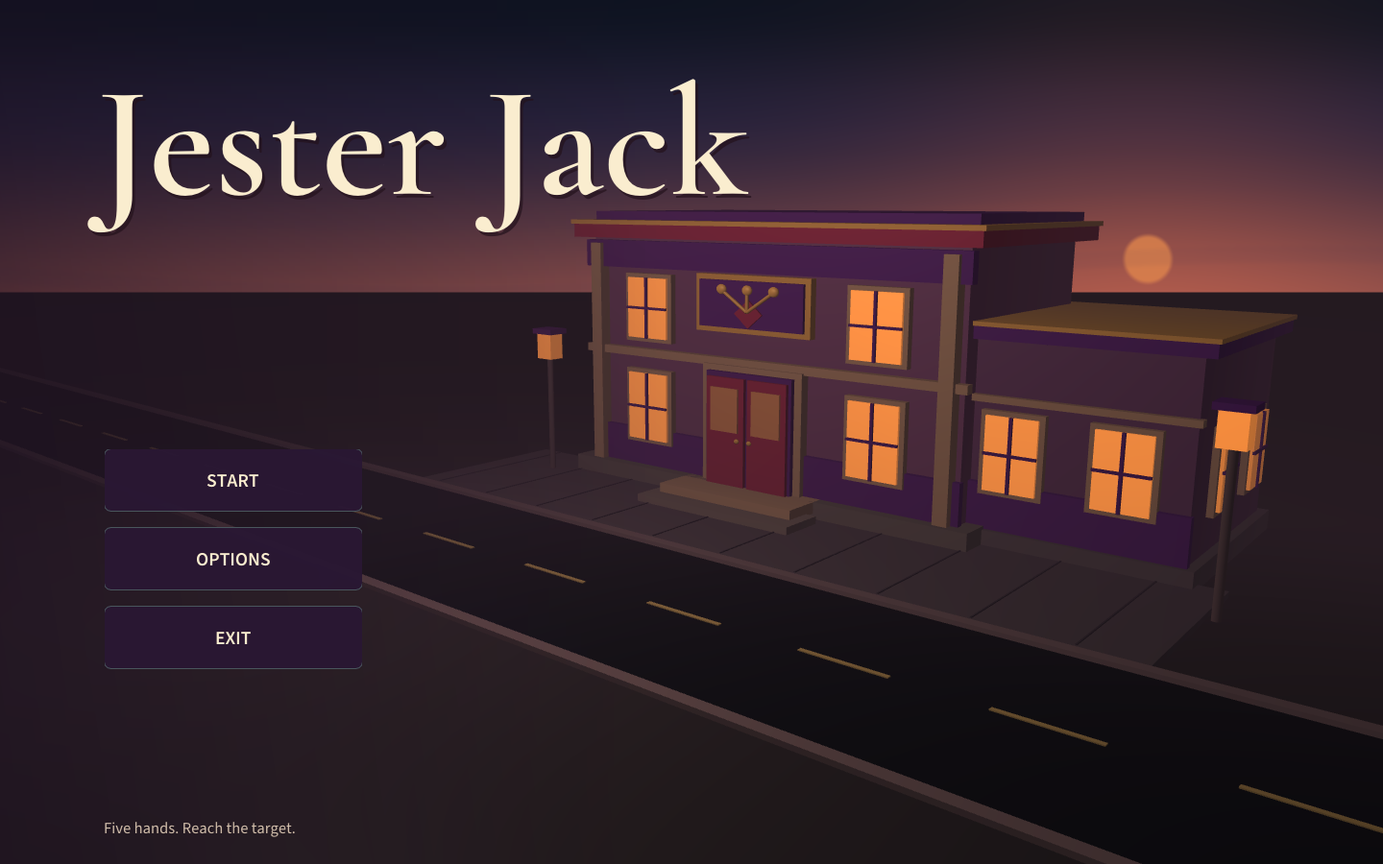
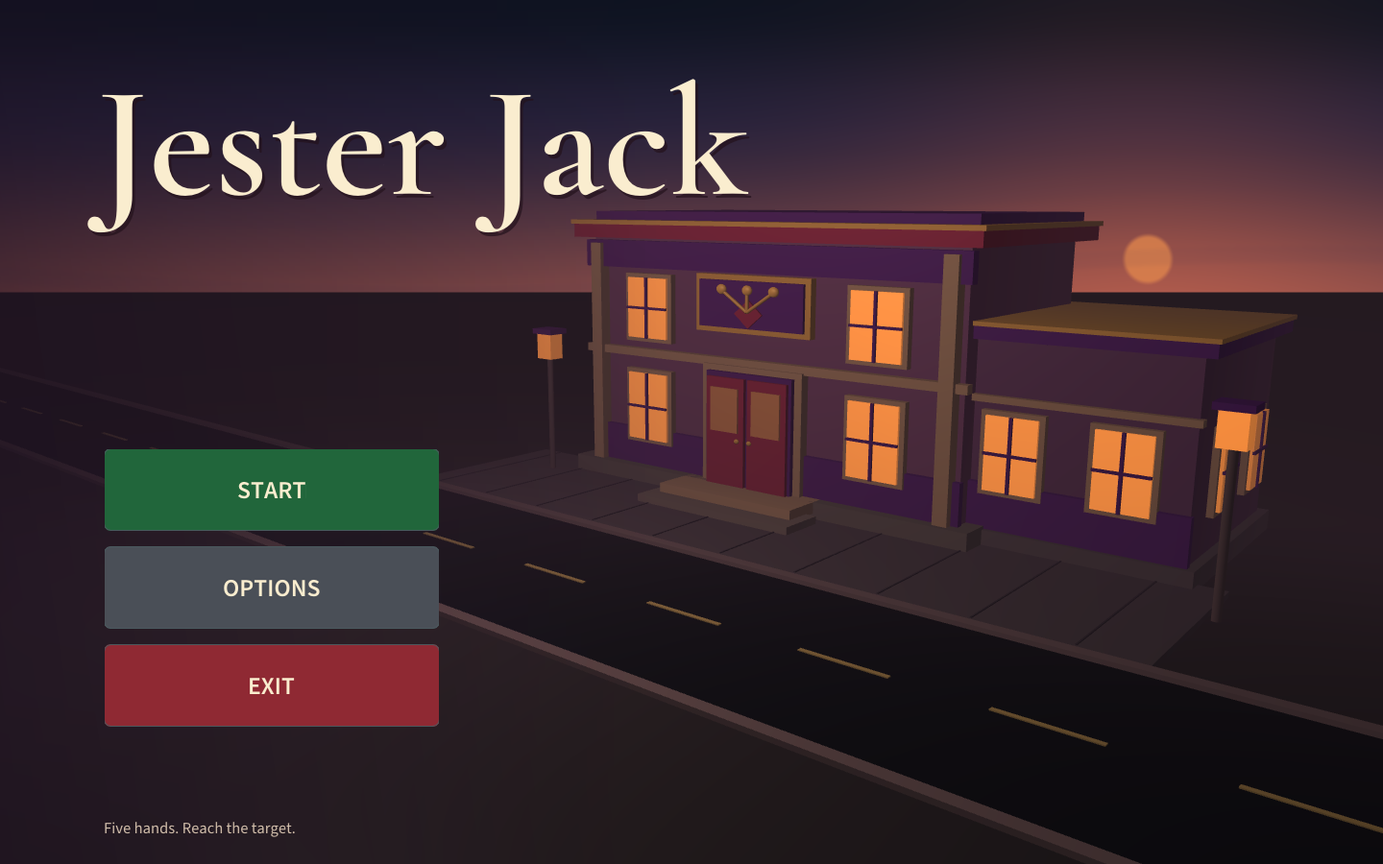
feat: enlarge menu controls and highlight relic rarities

Changed region(s): [[0.0625, 0.4978, 0.3438, 0.84]]

diff --git a/src/main.cpp b/src/main.cpp
@@ -175,6 +175,7 @@ struct Interface {
     ImFont* title = nullptr;
     ImFont* heading = nullptr;
     ImFont* button = nullptr;
+    ImFont* menuButton = nullptr;
     ImFont* number = nullptr;
     ImFont* small = nullptr;
     explicit Interface(GLFWwindow* window, const std::filesystem::path& assets) {
@@ -193,9 +194,10 @@ struct Interface {
         heading = io.Fonts->AddFontFromFileTTF(semibold.c_str(), 36.0f, &font);
         title = io.Fonts->AddFontFromFileTTF(semibold.c_str(), 200.0f, &font);
         button = io.Fonts->AddFontFromFileTTF(bold.c_str(), 26.0f, &font);
+        menuButton = io.Fonts->AddFontFromFileTTF(bold.c_str(), 34.0f, &font);
         number = io.Fonts->AddFontFromFileTTF(bold.c_str(), 46.0f, &font);
         small = io.Fonts->AddFontFromFileTTF(body.c_str(), 18.0f, &font);
-        if (!io.FontDefault || !heading || !title || !button || !number || !small) {
+        if (!io.FontDefault || !heading || !title || !button || !menuButton || !number || !small) {
             ImGui::DestroyContext();
             throw std::runtime_error("Missing Jester Jack fonts. Keep assets beside the executable.");
         }
@@ -319,9 +321,9 @@ void primaryAction(bj::Game& game, Commands& commands) {
 
 struct MenuLayout {
     ImVec2 origin;
-    float width = 270;
-    float height = 66;
-    float step = 82;
+    float width = 350;
+    float height = 86;
+    float step = 102;
 };
 
 MenuLayout menuLayout(ImVec2 display) {
@@ -343,19 +345,28 @@ void drawMenu(bj::Game& game, Session& session, const Interface& ui, GLFWwindow*
 
     const auto layout = menuLayout(display);
     ImGui::PushStyleVar(ImGuiStyleVar_WindowPadding, {0, 0});
-    ImGui::PushStyleColor(ImGuiCol_Button, {0.16f, 0.09f, 0.20f, 0.96f});
     beginPanel("##menu", layout.origin, {layout.width, 3 * layout.step}, true);
     ImGui::BeginDisabled(session.transitioning() || session.settings);
-    ImGui::PushFont(ui.button);
-    if (ImGui::Button("START", {layout.width, layout.height})) session.start(game);
+    ImGui::PushFont(ui.menuButton);
+    const auto button = [&](const char* label, ImVec4 normal, ImVec4 hover, ImVec4 active) {
+        ImGui::PushStyleColor(ImGuiCol_Button, normal);
+        ImGui::PushStyleColor(ImGuiCol_ButtonHovered, hover);
+        ImGui::PushStyleColor(ImGuiCol_ButtonActive, active);
+        const bool pressed = ImGui::Button(label, {layout.width, layout.height});
+        ImGui::PopStyleColor(3);
+        return pressed;
+    };
+    if (button("START", {.13f, .40f, .23f, 1}, {.19f, .53f, .31f, 1}, {.10f, .32f, .18f, 1}))
+        session.start(game);
     ImGui::SetCursorPos({0, layout.step});
-    if (ImGui::Button("OPTIONS", {layout.width, layout.height})) session.settings = true;
+    if (button("OPTIONS", {.29f, .31f, .34f, 1}, {.40f, .43f, .46f, 1}, {.22f, .24f, .27f, 1}))
+        session.settings = true;
     ImGui::SetCursorPos({0, 2 * layout.step});
-    if (ImGui::Button("EXIT", {layout.width, layout.height})) glfwSetWindowShouldClose(window, GLFW_TRUE);
+    if (button("EXIT", {.56f, .16f, .20f, 1}, {.70f, .23f, .27f, 1}, {.44f, .11f, .14f, 1}))
+        glfwSetWindowShouldClose(window, GLFW_TRUE);
     ImGui::PopFont();
     ImGui::EndDisabled();
     ImGui::End();
-    ImGui::PopStyleColor();
     ImGui::PopStyleVar();
     backdrop->AddText({layout.origin.x, display.y - 49}, IM_COL32(234, 213, 190, 225),
         "Five hands. Reach the target.");
@@ -370,6 +381,26 @@ ImVec4 rarityColor(bj::Rarity rarity) {
         case bj::Rarity::Legendary: return {1.0f, 0.70f, 0.25f, 1};
     }
     return cream;
+}
+
+void rarityBadge(bj::Rarity rarity, const Interface& ui) {
+    const auto color = ImGui::ColorConvertFloat4ToU32(rarityColor(rarity));
+    const char* label = bj::rarityName(rarity);
+    const ImVec2 origin = ImGui::GetCursorScreenPos();
+    const ImVec2 text = ui.button->CalcTextSizeA(26, 1000, 0, label);
+    ImGui::Dummy({text.x + 20, 32});
+    auto* draw = ImGui::GetWindowDrawList();
+    draw->AddRectFilled(origin, {origin.x + text.x + 20, origin.y + 32}, color, 5);
+    draw->AddText(ui.button, 26, {origin.x + 10, origin.y + 3}, IM_COL32(17, 22, 28, 255), label);
+}
+
+void drawCoinIcon(ImDrawList* draw, ImVec2 center, float radius, const Interface& ui) {
+    const ImU32 rim = IM_COL32(166, 103, 27, 255);
+    draw->AddCircleFilled({center.x - 7, center.y + 4}, radius, rim, 32);
+    draw->AddCircleFilled(center, radius, ImGui::ColorConvertFloat4ToU32(gold), 32);
+    draw->AddCircle(center, radius - 4, rim, 32, 2);
+    const ImVec2 mark = ui.button->CalcTextSizeA(26, 1000, 0, "$");
+    draw->AddText(ui.button, 26, {center.x - mark.x * .5f, center.y - mark.y * .5f}, rim, "$");
 }
 
 const char* relicSummary(bj::Relic relic) {
@@ -403,7 +434,7 @@ TableLayout tableLayout(ImVec2 display) {
     const float sidebar = std::clamp(display.x * .24f, 280.0f, 340.0f);
     const float contentX = sidebar + 24;
     const float actionY = display.y - 154;
-    return {sidebar, contentX, display.x - contentX - 20, 172, actionY - 182, actionY};
+    return {sidebar, contentX, display.x - contentX - 20, 202, actionY - 212, actionY};
 }
 
 ImVec2 dealButtonCenter(const TableLayout& layout) {
@@ -424,7 +455,7 @@ void relicTooltip(const bj::RelicInfo& item, const Interface& ui) {
 
 void drawRelicStrip(const bj::Game& game, const TableLayout& layout, const Interface& ui) {
     ImGui::PushStyleVar(ImGuiStyleVar_WindowPadding, {0, 0});
-    beginPanel("##relics", {layout.contentX, 16}, {layout.contentWidth, 146}, true);
+    beginPanel("##relics", {layout.contentX, 16}, {layout.contentWidth, 174}, true);
     ImGui::TextColored(cream, "RELICS  %d / 4", static_cast<int>(game.state().owned.size()));
     ImGui::SameLine();
     ImGui::PushFont(ui.small);
@@ -438,25 +469,34 @@ void drawRelicStrip(const bj::Game& game, const TableLayout& layout, const Inter
         const auto* item = filled ? &relicInfo(game.state().owned[static_cast<std::size_t>(slot)]) : nullptr;
         const ImVec4 accent = filled ? rarityColor(item->rarity) : ImVec4(.27f, .31f, .34f, 1);
         ImGui::PushStyleColor(ImGuiCol_Border, accent);
-        ImGui::PushStyleColor(ImGuiCol_ChildBg, {.105f, .12f, .15f, .97f});
-        ImGui::PushStyleVar(ImGuiStyleVar_WindowPadding, {12, 9});
+        ImGui::PushStyleColor(ImGuiCol_ChildBg, filled
+            ? ImVec4(.07f + accent.x * .16f, .08f + accent.y * .16f, .10f + accent.z * .16f, .99f)
+            : ImVec4(.105f, .12f, .15f, .97f));
+        ImGui::PushStyleVar(ImGuiStyleVar_ChildBorderSize, filled ? 2.0f : 1.0f);
+        ImGui::PushStyleVar(ImGuiStyleVar_WindowPadding, {12, 10});
         ImGui::PushStyleVar(ImGuiStyleVar_ItemSpacing, {4, 3});
-        ImGui::BeginChild("slot", {width, 112}, ImGuiChildFlags_Borders, ImGuiWindowFlags_NoScrollbar);
+        ImGui::BeginChild("slot", {width, 140}, ImGuiChildFlags_Borders, ImGuiWindowFlags_NoScrollbar);
         if (item) {
-            ImGui::TextColored(cream, "%s", item->name);
+            const ImVec2 namePosition = ImGui::GetCursorScreenPos();
+            const float available = ImGui::GetContentRegionAvail().x;
+            const float nameWidth = ui.button->CalcTextSizeA(26, 1000, 0, item->name).x;
+            const float nameSize = 26 * std::min(1.0f, available / nameWidth);
+            ImGui::Dummy({available, 26});
+            ImGui::GetWindowDrawList()->AddText(ui.button, nameSize, namePosition,
+                ImGui::ColorConvertFloat4ToU32(cream), item->name);
+            rarityBadge(item->rarity, ui);
             ImGui::PushFont(ui.small);
-            ImGui::TextColored(accent, "%s", bj::rarityName(item->rarity));
             ImGui::TextWrapped("%s", item->id == bj::Relic::SecondChance && game.state().usedSecondChance
                 ? "Rescue used this round" : relicSummary(item->id));
             ImGui::PopFont();
         } else {
-            ImGui::SetCursorPosY(35);
+            ImGui::SetCursorPosY(49);
             ImGui::PushFont(ui.small);
             ImGui::TextColored(muted, "Empty relic slot");
             ImGui::PopFont();
         }
         ImGui::EndChild();
-        ImGui::PopStyleVar(2);
+        ImGui::PopStyleVar(3);
         ImGui::PopStyleColor(2);
         if (item && ImGui::IsItemHovered()) relicTooltip(*item, ui);
         ImGui::PopID();
@@ -562,10 +602,22 @@ void drawShop(bj::Game& game, Commands& commands, const Interface& ui) {
     const float width = std::min(900.0f, display.x - 64);
     const float height = std::min(760.0f, display.y - 48);
     beginPanel("##shop", {(display.x - width) * .5f, (display.y - height) * .5f}, {width, height});
-    heading("RELIC SHOP", ui);
-    ImGui::TextColored(gold, "%d coins", state.coins);
-    ImGui::SameLine();
-    ImGui::Text(" /  %d of 4 relic slots used", static_cast<int>(state.owned.size()));
+    const ImVec2 header = ImGui::GetCursorScreenPos();
+    ImGui::PushFont(ui.heading);
+    ImGui::TextColored(gold, "RELIC SHOP");
+    ImGui::PopFont();
+    const std::string coins = std::to_string(state.coins);
+    const float numberWidth = ui.number->CalcTextSizeA(46, 1000, 0, coins.c_str()).x;
+    const float labelWidth = ui.small->CalcTextSizeA(18, 1000, 0, "COINS").x;
+    const float walletX = ImGui::GetWindowPos().x + width - 20 - labelWidth - numberWidth - 72;
+    auto* draw = ImGui::GetWindowDrawList();
+    drawCoinIcon(draw, {walletX + 22, header.y + 25}, 21, ui);
+    draw->AddText(ui.number, 46, {walletX + 54, header.y}, ImGui::ColorConvertFloat4ToU32(gold), coins.c_str());
+    draw->AddText(ui.small, 18, {walletX + 66 + numberWidth, header.y + 19},
+        ImGui::ColorConvertFloat4ToU32(gold), "COINS");
+    ImGui::SetCursorScreenPos({header.x, header.y + 56});
+    ImGui::Separator();
+    ImGui::Text("%d of 4 relic slots used", static_cast<int>(state.owned.size()));
     ImGui::PushFont(ui.small);
     ImGui::TextColored(muted, "Round cleared. Choose an upgrade or save your coins.");
     ImGui::PopFont();
@@ -579,12 +631,13 @@ void drawShop(bj::Game& game, Commands& commands, const Interface& ui) {
         ImGui::SetCursorPos({20 + static_cast<float>(i) * (cardWidth + 14), offerY});
         ImGui::PushStyleColor(ImGuiCol_Border, accent);
         ImGui::PushStyleColor(ImGuiCol_ChildBg, {.105f, .12f, .15f, 1});
+        ImGui::PushStyleVar(ImGuiStyleVar_ChildBorderSize, 2);
         ImGui::BeginChild("offer", {cardWidth, offerHeight}, ImGuiChildFlags_Borders, ImGuiWindowFlags_NoScrollbar);
         ImGui::PushFont(ui.button);
         ImGui::TextColored(cream, "%s", item.name);
         ImGui::PopFont();
+        rarityBadge(item.rarity, ui);
         ImGui::PushFont(ui.small);
-        ImGui::TextColored(accent, "%s", bj::rarityName(item.rarity));
         ImGui::TextWrapped("%s", item.description);
         ImGui::PopFont();
         ImGui::SetCursorPosY(offerHeight - 60);
@@ -601,6 +654,7 @@ void drawShop(bj::Game& game, Commands& commands, const Interface& ui) {
         ImGui::EndDisabled();
         ImGui::PopFont();
         ImGui::EndChild();
+        ImGui::PopStyleVar();
         ImGui::PopStyleColor(2);
         ImGui::PopID();
     }
@@ -619,9 +673,7 @@ void drawShop(bj::Game& game, Commands& commands, const Interface& ui) {
         ImGui::TextColored(rarityColor(item.rarity), "%s", item.name);
         if (ImGui::IsItemHovered()) relicTooltip(item, ui);
         ImGui::SameLine(300);
-        ImGui::PushFont(ui.small);
-        ImGui::TextColored(rarityColor(item.rarity), "%s", bj::rarityName(item.rarity));
-        ImGui::PopFont();
+        rarityBadge(item.rarity, ui);
         ImGui::SameLine(width - 190);
         ImGui::PushStyleVar(ImGuiStyleVar_FramePadding, {12, 3});
         ImGui::BeginDisabled(commands.blocked || commands.used);

diff --git a/README.md b/README.md
@@ -1,34 +1,31 @@
-# Final-Project-CGF - Jester Jack
+# Jester Jack
 
-[![Build and tests](https://github.com/F1j1tun1/Final-Project-CGF/actions/workflows/build.yml/badge.svg?branch=main)](https://github.com/F1j1tun1/Final-Project-CGF/actions/workflows/build.yml)
+Одиночный блэкджек с бесконечными раундами и улучшениями. C++17, OpenGL 3.3 Core.
 
-**Jester Jack** - учебный прототип одиночного блэкджека с бесконечными раундами и магазином улучшений. В каждом раунде есть до пяти раздач, чтобы набрать цель по очкам. Забег заканчивается, только если раздачи закончились, а цель не выполнена. Ставок нет: победные руки приносят монеты, за которые можно собрать набор из четырёх улучшений.
+## Запуск
 
-Главное меню показывает крупное название вверху слева и вертикальные кнопки START, OPTIONS, EXIT ниже слева. Справа расположено увеличенное процедурное казино в три четверти, вдоль дороги, при вечернем закатном освещении. START запускает затемнение и появление у стола за 0,9 секунды; первая рука раздаётся отдельно. Фиолетовый, золотой и красный декор сочетается с классическим заголовком Cormorant Garamond и более крупным читаемым текстом Source Sans 3. Видимого персонажа дилера за столом нет; карты дилера сохраняются. Интерфейс английский, документация русская.
+В готовой сборке откройте `JesterJack.exe`. Рядом должна оставаться папка `assets/`. Для запуска нужен Windows с драйвером OpenGL 3.3 Core.
 
-Во время игры слева крупно показаны цель и очки раунда, оставшиеся раздачи и монеты. Четыре места для активных улучшений расположены горизонтально сверху; стол занимает центр и правую часть, действия - нижнюю правую часть. Полные правила открываются через HOW TO PLAY. Компоновка HUD использует [официальные изображения Balatro](https://store.steampowered.com/app/2379780/Balatro/) как ориентир; в поставляемой игре используются собственные сцена, карточки и ресурсы.
+## Правила и управление
 
-![Главное меню Jester Jack](docs/images/jester-menu.png)
+За пять раздач наберите цель раунда: сначала 30 очков, затем +10 за раунд, максимум 100. Победная рука приносит очки и 3 монеты. После выполнения цели открывается магазин с двумя предложениями. Можно держать до четырёх улучшений и продавать их за половину цены. Если раздачи закончились без выполнения цели, забег завершается.
 
-![Стол Jester Jack](docs/images/jester-table.png)
+| Управление | Действие |
+| --- | --- |
+| H | Взять карту |
+| S | Остановиться |
+| Space | Основное действие: старт, раздача, остановиться, продолжить или повторить забег |
+| Enter | Нажать выделенную кнопку |
+| F1 | Настройки |
+| Escape | Закрыть правила/настройки или вернуться в меню |
 
-Основной репозиторий команды: [F1j1tun1/Final-Project-CGF](https://github.com/F1j1tun1/Final-Project-CGF). Работайте в его checkout, а дальнейшие изменения оформляйте отдельными ветками и PR: [CONTRIBUTING.md](CONTRIBUTING.md), [TEAM_WORKFLOW.md](docs/TEAM_WORKFLOW.md).
+Полные правила — HOW TO PLAY. Кнопки также работают мышью. Выход — EXIT или QUIT GAME.
 
-## Техническая основа
+## Сборка на Windows
 
-Сохранены **C++17, OpenGL 3.3 Core и CMake 3.24+**, собственные GLSL-шейдеры, model/view/projection, матрица нормалей, Blinn-Phong и процедурные текстуры. Готовый движок не используется. 2D-интерфейс ImGui дополняет собственную 3D-сцену. Связь с заданием и лекциями описана в [COURSE_REQUIREMENTS.md](docs/COURSE_REQUIREMENTS.md) и [LECTURE_ALIGNMENT.md](docs/LECTURE_ALIGNMENT.md).
+Нужны CMake 3.24+ и Visual Studio 2022/2026 либо Build Tools с MSVC, Windows SDK и компонентом Desktop development with C++. Зависимости включены в `third_party/`.
 
-GLFW, GLM, Dear ImGui и GLAD включены в `third_party/`; CMake не скачивает зависимости. Для полной игры отдельно нужны компилятор C++17, CMake 3.24+ и драйвер OpenGL 3.3 Core.
-
-## Сборка и запуск
-
-```text
-git clone https://github.com/F1j1tun1/Final-Project-CGF.git
-cd Final-Project-CGF
-code .
-```
-
-На Windows установите Visual Studio 2022/2026 либо Build Tools с компонентами **Desktop development with C++**, MSVC и Windows SDK. VS Code сам по себе не устанавливает компилятор.
+В терминале из папки с `CMakeLists.txt`:
 
 ```powershell
 cmake --preset desktop
@@ -37,90 +34,14 @@ ctest --preset desktop
 .\build\desktop\Debug\blackjack_forge.exe
 ```
 
-Исполняемый файл и CMake target сохраняют имя `blackjack_forge` для совместимости с настройками сборки. Путь выше соответствует генератору Visual Studio; для Ninja программа обычно находится в `build/desktop/` без подпапки `Debug`. Если CMake не видит MSVC, используйте Developer PowerShell из Visual Studio.
+Если CMake не видит MSVC, используйте Developer PowerShell. Имя собираемого файла — `blackjack_forge.exe`; игра называется Jester Jack.
 
-На Debian/Ubuntu для X11 нужны системные пакеты:
+Только правила и тесты, без окна и GPU:
 
-```bash
-sudo apt install build-essential cmake libgl1-mesa-dev libxrandr-dev libxinerama-dev libxcursor-dev libxi-dev
-cmake --preset desktop -DGLFW_BUILD_WAYLAND=OFF
-cmake --build --preset desktop --parallel
-ctest --preset desktop
-./build/desktop/blackjack_forge
-```
-
-Проверьте `cmake --version`: версия из репозитория дистрибутива может быть ниже 3.24. Если нужен Wayland, установите `libwayland-dev`, `libxkbcommon-dev`, `wayland-protocols` и конфигурируйте без его отключения. Названия пакетов зависят от дистрибутива.
-
-Правила можно собрать без окна, OpenGL и GPU:
-
-```text
+```powershell
 cmake --preset core-only
 cmake --build --preset core-only --parallel
 ctest --preset core-only
 ```
 
-## Правила и магазин
-
-**Раздача** - одна рука игрока против дилера. **Раунд** - до пяти таких раздач с общей целью по очкам. Наберите сумму ближе к 21, чем дилер. Туз считается как 1 или 11; натуральный блэкджек - 21 на первых двух картах. Дилер останавливается на 17, включая мягкие 17. Проигрыш отдельной руки даёт ноль очков и монет, обрывает серию, но не заканчивает забег. Ничья тоже даёт ноль, сохраняя серию.
-
-Цель первого раунда - **30 очков**, затем она растёт на 10 за раунд до **100**: 30, 40, 50, 60, 70, 80, 90, 100, 100… После выполнения цели кнопка продолжения ведёт в магазин, даже если это последняя доступная раздача. Если все пять раздач использованы, а цель не достигнута, автоматически появляется **GAME OVER** с RETRY, MAIN MENU и QUIT GAME. После магазина начинается следующий раунд с новой целью, нулевым счётом раунда и пятью раздачами. Раунды продолжаются бесконечно; финальной победы нет.
-
-За каждую победную руку начисляются **3 монеты** плюс небольшие бонусы улучшений. Очки - сумма победной руки, +10 за натуральный блэкджек и бонусы улучшений; Streak также может увеличить итог множителем до 1,4. Очки идут к цели текущего раунда и в общий результат забега. Перед каждой раздачей равномерно перемешивается новая колода из 52 карт без подыгрывания блэкджеку. При случайной обычной раздаче шанс натурального блэкджека составляет около 4,83%; проценты обозначают вероятность, а не принудительную частоту исходов.
-
-Магазин открывается **только после выполнения цели раунда**: два случайных предложения из 12 улучшений, цены 2/4/6/8/10 монет. Редкости выделены названиями и цветом: Common, Uncommon, Rare, Epic, Legendary. Их базовые веса - **50/28/14/6/2**: сначала выбирается редкость среди доступных, затем равномерно предмет внутри неё. Предпочтение новым предложениям действует внутри выбранной редкости; недоступные редкости исключаются с пересчётом весов. Это вероятности выбора, а не гарантированное число редких предметов за забег.
-
-Предложения фиксируются на весь визит; уже активное улучшение не предлагается и не может дублироваться. Одновременно можно держать максимум **четыре** улучшения; покупать оба предложения необязательно. Продажа доступна в магазине за половину цены покупки. Проданное улучшение может появиться в следующих магазинах; покупка и продажа не меняют текущую пару предложений. Second Chance спасает от одной карты перебора за раунд и обновляется в следующем раунде. Полный каталог и точные эффекты - в [ARCHITECTURE.md](docs/ARCHITECTURE.md).
-
-![Магазин Jester Jack](docs/images/jester-shop.png)
-
-Обычный запуск получает новый случайный seed. `--seed N` воспроизводит тот же забег при тех же действиях; карты и магазин используют отдельные генераторы. На экране проигрыша показан seed. RETRY при фиксированном seed увеличивает его на 1; чтобы воспроизвести прежний забег, запустите программу снова с исходным `--seed`.
-
-| Клавиша | Действие |
-| --- | --- |
-| H | Взять карту |
-| S | Остановиться |
-| Space | START / раздать / Stand во время хода / продолжить / следующий раунд / Retry |
-| Enter | Активировать выделенную кнопку интерфейса |
-| F1 | Открыть или закрыть настройки |
-| Escape | Закрыть инструкции/настройки, иначе вернуться в меню |
-
-Выход из приложения - EXIT в главном меню. START из меню начинает новый забег. Настройки включают камеру, свет, текстуры, фоновое движение и стартовый переход. Во время перехода и открытых настроек игровые команды блокируются.
-
-![Экран завершения забега](docs/images/jester-game-over.png)
-
-## Демо и проверка графики
-
-Примеры для Windows; на Linux замените путь программы на `./build/desktop/blackjack_forge`.
-
-```powershell
-# Пропустить меню и сразу раздать руку для воспроизводимой проверки.
-.\build\desktop\Debug\blackjack_forge.exe --demo --seed 42
-
-# Сохранить главный экран или стол.
-.\build\desktop\Debug\blackjack_forge.exe --hidden --frames 3 --screenshot build/menu.png
-.\build\desktop\Debug\blackjack_forge.exe --hidden --demo --seed 42 --frames 3 --screenshot build/table.png
-
-# Интеграция: меню, переход, игровые команды, изменение размера окна.
-.\build\desktop\Debug\blackjack_forge.exe --smoke --frames 600 --capture-states build/captures
-```
-
-`--smoke` использует seed 42, если явно не задан другой, скрытое окно и автоматические действия; по умолчанию длится 180 кадров. `--autoplay` включает автоматические действия отдельно, `--no-animation` пропускает стартовый переход, `--help` показывает параметры. `--capture-states DIR` сохраняет встреченные состояния, поэтому для магазина и проигрыша нужен достаточно длинный прогон.
-
-Даже скрытому окну нужен рабочий OpenGL-контекст. Smoke проверяет интеграцию и ошибки OpenGL, а визуальная проверка отдельно подтверждает компоновку, читаемость и отрисовку. Исторические результаты прототипа и фактические результаты новой версии записываются раздельно в [VERIFICATION.md](docs/VERIFICATION.md); прежние проверки не подтверждают новую механику и оформление. macOS и машина TA требуют отдельной проверки.
-
-При сборке вся папка `assets/`, включая шрифты и их лицензию, копируется рядом с executable. Ресурсы ищутся рядом с программой, затем в рабочей папке. `--assets DIR` задаёт другой корень с `shaders/` и `fonts/`. При переносе сборки сохраняйте прилегающую `assets/`.
-
-## Структура и продолжение
-
-| Папка | Назначение |
-| --- | --- |
-| `src/game/` | Чистые правила, детерминированная случайность, забег и магазин |
-| `src/graphics/` | OpenGL-ресурсы, геометрия, камера, свет и отрисовка |
-| `src/main.cpp` | Окно, меню, ввод, UI, переход и преобразование Snapshot в Scene |
-| `assets/` | GLSL-шейдеры и лицензированные шрифты |
-| `tests/` | Проверки правил, guards, магазина и воспроизводимости |
-| `docs/` | Архитектура, передача проекта, план и результаты проверки |
-
-Контекст для VS Code - [HANDOFF_VSCODE.md](docs/HANDOFF_VSCODE.md). Дальнейшие задачи - [ROADMAP.md](docs/ROADMAP.md): анимации раздачи/переворота, будущие кастомные звуки и саундтреки, баланс и материалы сдачи. Сейчас есть стартовое затемнение и фоновое движение; событийная анимация карт и звук ещё не реализованы. Отчёт, слайды, сохранение и сеть также не объявляются готовыми.
-
-Лицензии библиотек находятся в `third_party/`; Cormorant Garamond и Source Sans 3 распространяются под SIL OFL 1.1, тексты обеих лицензий находятся в `assets/fonts/`. Источники и контрольные суммы - [THIRD_PARTY_NOTICES.md](THIRD_PARTY_NOTICES.md) и [assets/fonts/README.md](assets/fonts/README.md). Казино, декор и изображения карт создаются процедурно; материалы Balatro не включены.
+Лицензии библиотек и шрифтов сохранены в `third_party/`, `assets/fonts/` и папке `licenses/` готовой сборки. Источники сторонних компонентов — `THIRD_PARTY_NOTICES.md`. При копировании игры сохраняйте ресурсы и лицензии.

diff --git a/docs/HANDOFF_VSCODE.md b/docs/HANDOFF_VSCODE.md
@@ -4,10 +4,10 @@
 
 ## Текущее поведение
 
-- Название **Jester Jack**. В меню увеличенный заголовок вверху слева, вертикальные START, OPTIONS, EXIT ниже слева. Справа увеличенное казино в три четверти вдоль дороги, при вечернем закатном освещении. Палитра фиолетовая, золотая, красная; английский UI использует Cormorant Garamond для заголовка и читаемый Source Sans 3 для основного текста/кнопок.
+- Название **Jester Jack**. В меню увеличенный заголовок вверху слева, ниже слева три большие вертикальные кнопки START, OPTIONS, EXIT разных цветов. Справа увеличенное казино в три четверти вдоль дороги, при вечернем закатном освещении. Палитра фиолетовая, золотая, красная; английский UI использует Cormorant Garamond для заголовка и читаемый Source Sans 3 для основного текста/кнопок.
 - START запускает затемнение/проявление за 0,9 секунды и новый забег у стола в фазе `Ready`. Раздача начинается отдельной командой. В переходе ввод заблокирован, повторный старт не создаёт вторую игру.
 - Казино и интерьер создаются процедурно. Видимого персонажа дилера за столом нет, карты дилера сохраняются. Настройки камеры, освещения, текстур и фонового движения сохранены, стартовый переход можно выключить.
-- HUD: большая цель/очки и счётчики раздач/монет слева, четыре карточки активных улучшений горизонтально сверху, стол в центре справа и действия внизу справа. Полные правила открываются через HOW TO PLAY. Ориентир компоновки - [официальные изображения Balatro](https://store.steampowered.com/app/2379780/Balatro/); его ресурсы в игру не включены.
+- HUD: большая цель/очки и счётчики раздач/монет слева; увеличенный ряд из четырёх карточек активных улучшений с яркими бейджами редкости сверху; стол в центре справа и действия внизу справа. В магазине баланс показан крупным числом с иконкой монет. Полные правила открываются через HOW TO PLAY. Ориентир компоновки - [официальные изображения Balatro](https://store.steampowered.com/app/2379780/Balatro/); его ресурсы в игру не включены.
 - **Раздача** - одна рука против дилера; **раунд** - до пяти раздач с целью по очкам. Раунды бесконечны, без ставок и финальной победы. Цели: 30, 40, 50, 60, 70, 80, 90, 100, затем всегда 100. Дилер останавливается на 17.
 - Проигрыш руки даёт ноль и обрывает серию; ничья даёт ноль, сохраняя серию. После всех пяти раздач без цели автоматически появляется GAME OVER с RETRY, MAIN MENU, QUIT GAME. Проверка выполненной цели имеет приоритет: последняя успешная раздача позволяет перейти в магазин.
 - Каждая победная рука приносит 3 монеты и бонусы активных улучшений. Очки идут к цели раунда и в общий результат забега. Магазин открывается только после выполнения цели: два стабильных случайных предложения из 12 улучшений. После магазина следующий раунд получает пять раздач и нулевой счёт раунда.

diff --git a/docs/VERIFICATION.md b/docs/VERIFICATION.md
@@ -1,5 +1,19 @@
 # Проверка Jester Jack
 
+## Оформление для показа — 16 октября 2026
+
+Кнопки главного меню увеличены до 350×86, шрифт до 34: START зелёная, OPTIONS серая, EXIT красная. В магазине баланс показан шрифтом 46 с процедурной иконкой монет. Редкости выделены крупными заполненными бейджами; верхние карточки увеличены до 140 по высоте, имена адаптируются к ширине, фон и рамка окрашены по редкости. Правила и случайность не менялись.
+
+Проверено на Windows/MSVC 19.51 и Intel RaptorLake-S Mobile, OpenGL 3.3:
+
+- `cmake --preset desktop`, `cmake --build --preset desktop --parallel`, `ctest --preset desktop` — успешно, Debug; CTest 10,85 с.
+- Release собран и проверен CTest — успешно, 1,14 с.
+- Debug: `--smoke --frames 900 --capture-states build/verification/presentation` — успешно. Проверены события START, Space после мыши, инструкции, настройки, магазин и завершение забега; ошибок OpenGL нет.
+- Просмотрены меню в 1100×720 и 1440×900, магазин с четырьмя улучшениями и верхние карточки при 1100×720. Наложений и обрезания подписей не обнаружено.
+- Из чистой копии `C:\Users\erkin\Desktop\Jester Jack` выполнены configure, полная сборка Release и CTest — успешно, 1,12 с. Собранный там executable установлен как `JesterJack.exe` в корне папки и прошёл 900 кадров smoke без ошибок.
+
+Готовая копия содержит игру, ресурсы, исходники, тесты, зависимости, CMake и короткий README; служебные файлы и история разработки в неё не включены. Лицензии сохранены. Другие ОС и видеокарты в этой проверке не использовались.
+
 ## Текущая версия: новый HUD, редкости, Space и GAME OVER
 
 Дата: **16 октября 2026**. Казино увеличено, фасад/тротуар/дорога используют общий поворот и стыкуются; название и кнопки меню стали крупнее, кнопки опущены. Игровой HUD переработан по согласованному ориентиру Balatro: цель и счёт слева, четыре карточки улучшений сверху, стол в отдельном viewport справа, действия снизу. Основной текст использует Source Sans 3, заголовок — Cormorant; лицензии включены.
